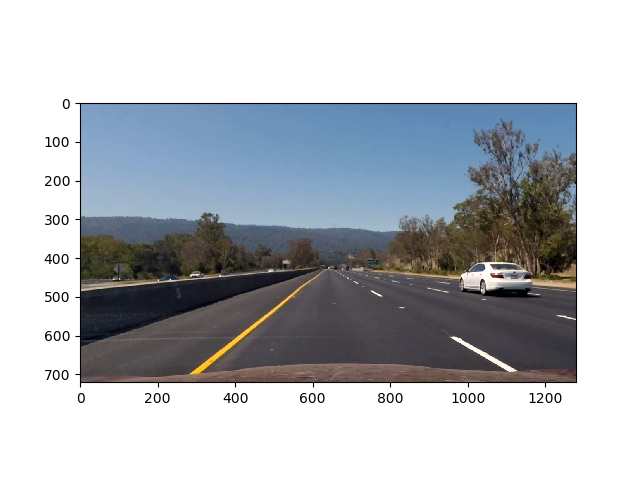
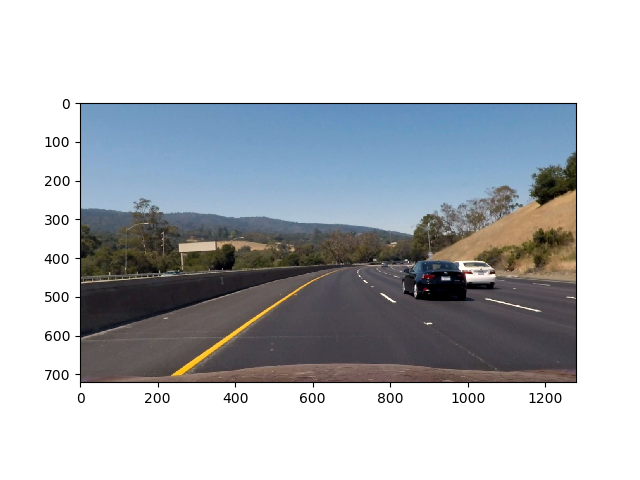
Update output images (distorted and corrected) and add output images for thresholded and top view

diff --git a/advancedLaneFind.py b/advancedLaneFind.py
@@ -33,7 +33,7 @@ print('number of frames in video: ',num_frames)
 
 #Choose which frames of the video to consider:
 # frames = [100,101,102,103,104]
-frames = [362]
+frames = [870]
 # frames = np.arange(0,num_frames,1)
 # frames = np.arange(0,192,1)
 
@@ -60,23 +60,26 @@ for frame in frames:
     currImg = vid.get_data(frame)
 
     # plot untreated image:
-    # plt.imshow(currImg)
-    # plt.show()
+    plt.imshow(currImg)
+    plt.show()
 
     # Correction (undistort) image:
     undistImg = cv2.undistort(currImg, mtx, dist, None, mtx)
 
-    # plt.imshow(undistImg)
-    # plt.show()
+    plt.imshow(undistImg)
+    plt.show()
 
     # Apply Color/gradient thresholding:
     thresh_img = thresholding(undistImg, abs_thresh = (20, 100), mag_thresh = (30, 100), dir_thresh = (0.7, 1.3), R_thresh = (220, 255), S_thresh = (170,240))
 
-    # plt.imshow(thresh_img, cmap="gray")
-    # plt.show()
+    plt.imshow(thresh_img, cmap="gray")
+    plt.show()
 
     # Perform perspective transform to obtain top view:
     topView_img, Minv = transformPerspective(thresh_img)
+
+    plt.imshow(topView_img, cmap="gray")
+    plt.show()
 
     # Remove small specs (Noise) from top view image:
     kernel = np.ones((openkernelSize,openkernelSize), np.uint8)
